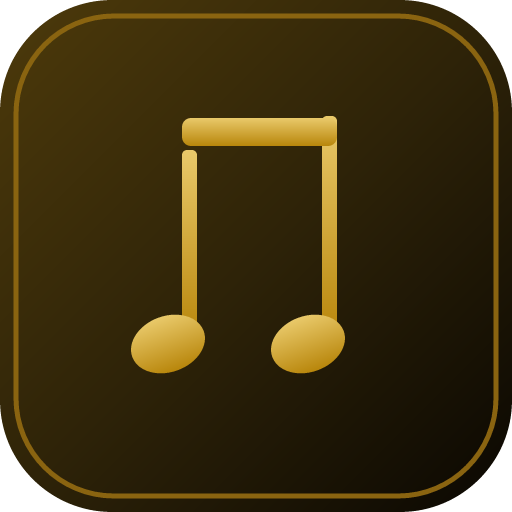
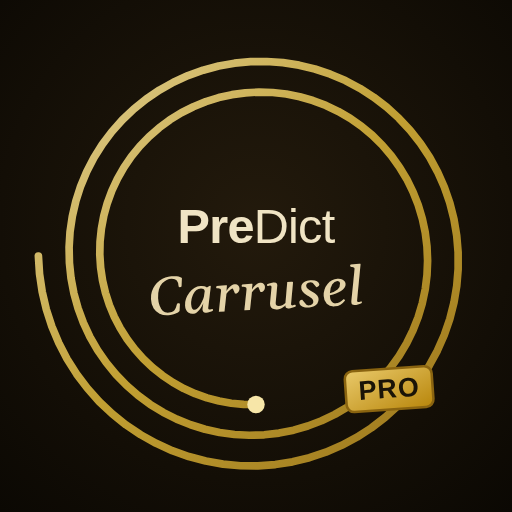
Add files via upload

diff --git a/index.html b/index.html
@@ -384,7 +384,7 @@
 <div class="countdown" id="countdown"></div>
 <div id="exIntro" class="ex-intro"><div class="ex-intro-inner"><div class="ex-intro-kick">a continuación</div><div class="ex-intro-name"></div><div class="ex-intro-sub"></div></div></div>
 <button id="exitBtn" class="exit-btn" title="Salir del juego">✕</button>
-<div id="bigRemind" class="big-remind"><div class="big-remind-txt">¡Pulsad ENVIAR<br>si no lo habéis hecho!<span id="bigRemindCount"></span></div></div>
+<div id="bigRemind" class="big-remind"><div class="big-remind-txt">Pulsa ENVIAR<br>si no lo has hecho<span id="bigRemindCount"></span></div></div>
 <div id="exitConfirm" class="exit-confirm"><div class="exit-box"><div class="exit-q">¿Seguro que quieres volver a la pantalla de inicio?</div><div class="exit-btns"><button id="exitYes" class="btn-gold">Sí, salir</button><button id="exitNo">Cancelar</button></div></div></div>
 <button id="fsBtn" class="fs-btn" title="Pantalla completa">⛶</button>
 